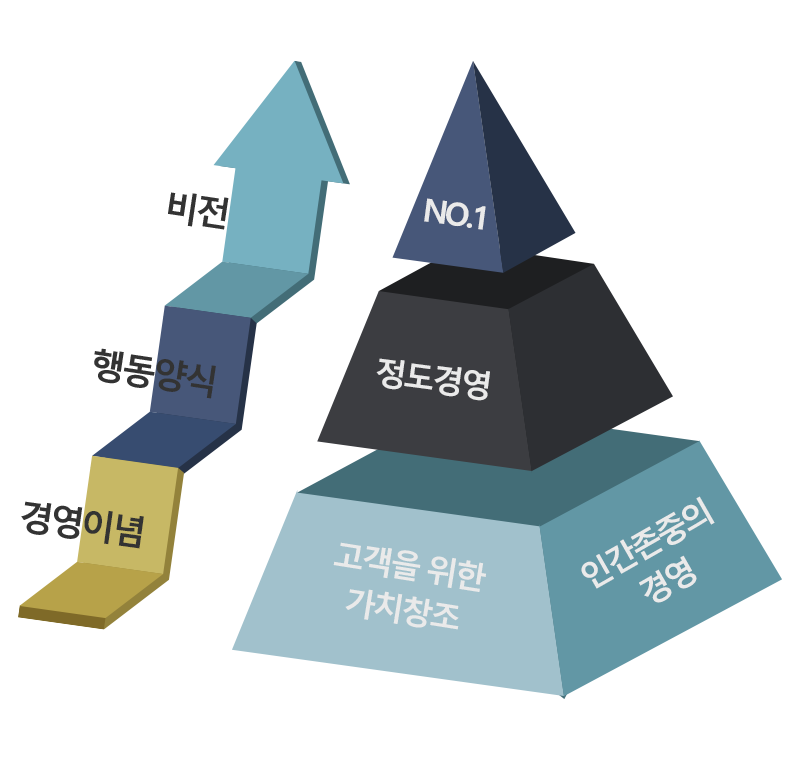
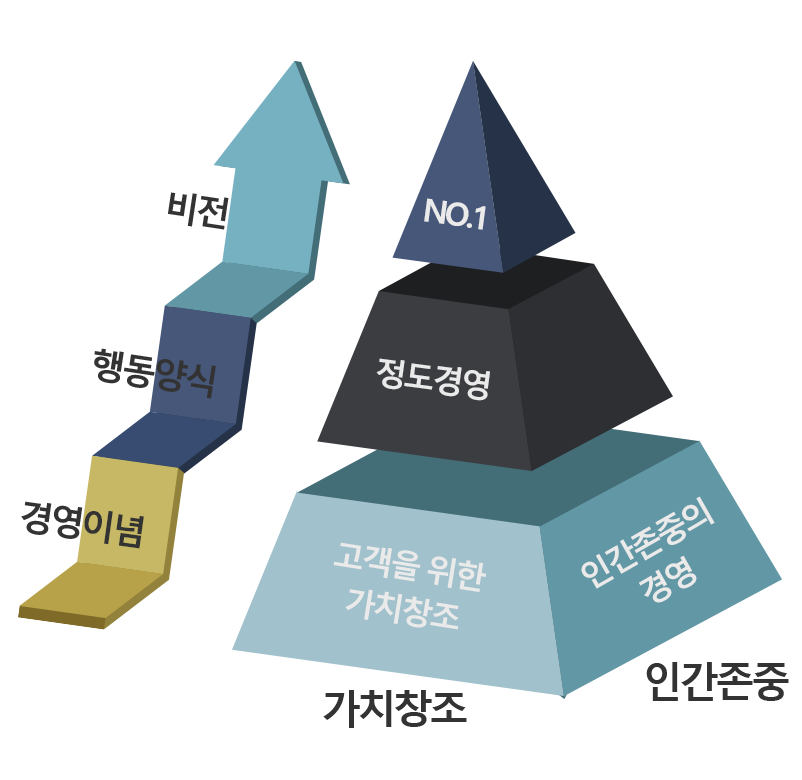
pc 수정끝, 모바일 수정 작업 중

Changed region(s): [[0.8105, 0.8308, 0.9975, 0.9231], [0.4052, 0.8615, 0.5923, 0.9538]]

diff --git a/src/main/webapp/resources/css/main.css b/src/main/webapp/resources/css/main.css
@@ -109,10 +109,17 @@ body{
 	margin: 50px 0 100px 0;
 }
 .sec3 > .inner > h3{
-	font-size: 27px;
-	line-height: 35px;
+	font-size: 35px;
+	line-height: 50px;
 	color: #555555;
-	margin-bottom: 30px;
+	margin-bottom: 45px;
+	font-weight: bold;
+}
+.sec3 > .inner > h4{
+	font-size: 24px;
+	padding: 30px 0;
+	line-height: 35px;
+	padding-bottom: 100px;
 }
 .sec4{
 	height: auto;

diff --git a/src/main/java/com/webaid/controller/HomeController.java b/src/main/java/com/webaid/controller/HomeController.java
@@ -58,16 +58,16 @@ public class HomeController {
 			deviceType="unknown";
 			logger.info("디바이스타입= "+deviceType);
 
-			return "main/index";
+			return "main/renewal_pc";
 		}
 		if(device.isMobile()){
 			deviceType="mobile";
 			logger.info("디바이스타입= "+deviceType);			
-			return "main/mIndex";
+			return "main/renewal_m";
 		}else if(device.isTablet()){
 			deviceType="mobile";
 			logger.info("디바이스타입= "+deviceType);			
-			return "main/mIndex";
+			return "main/renewal_m";
 		}else{
 			deviceType="normal";
 			logger.info("디바이스타입= "+deviceType);
